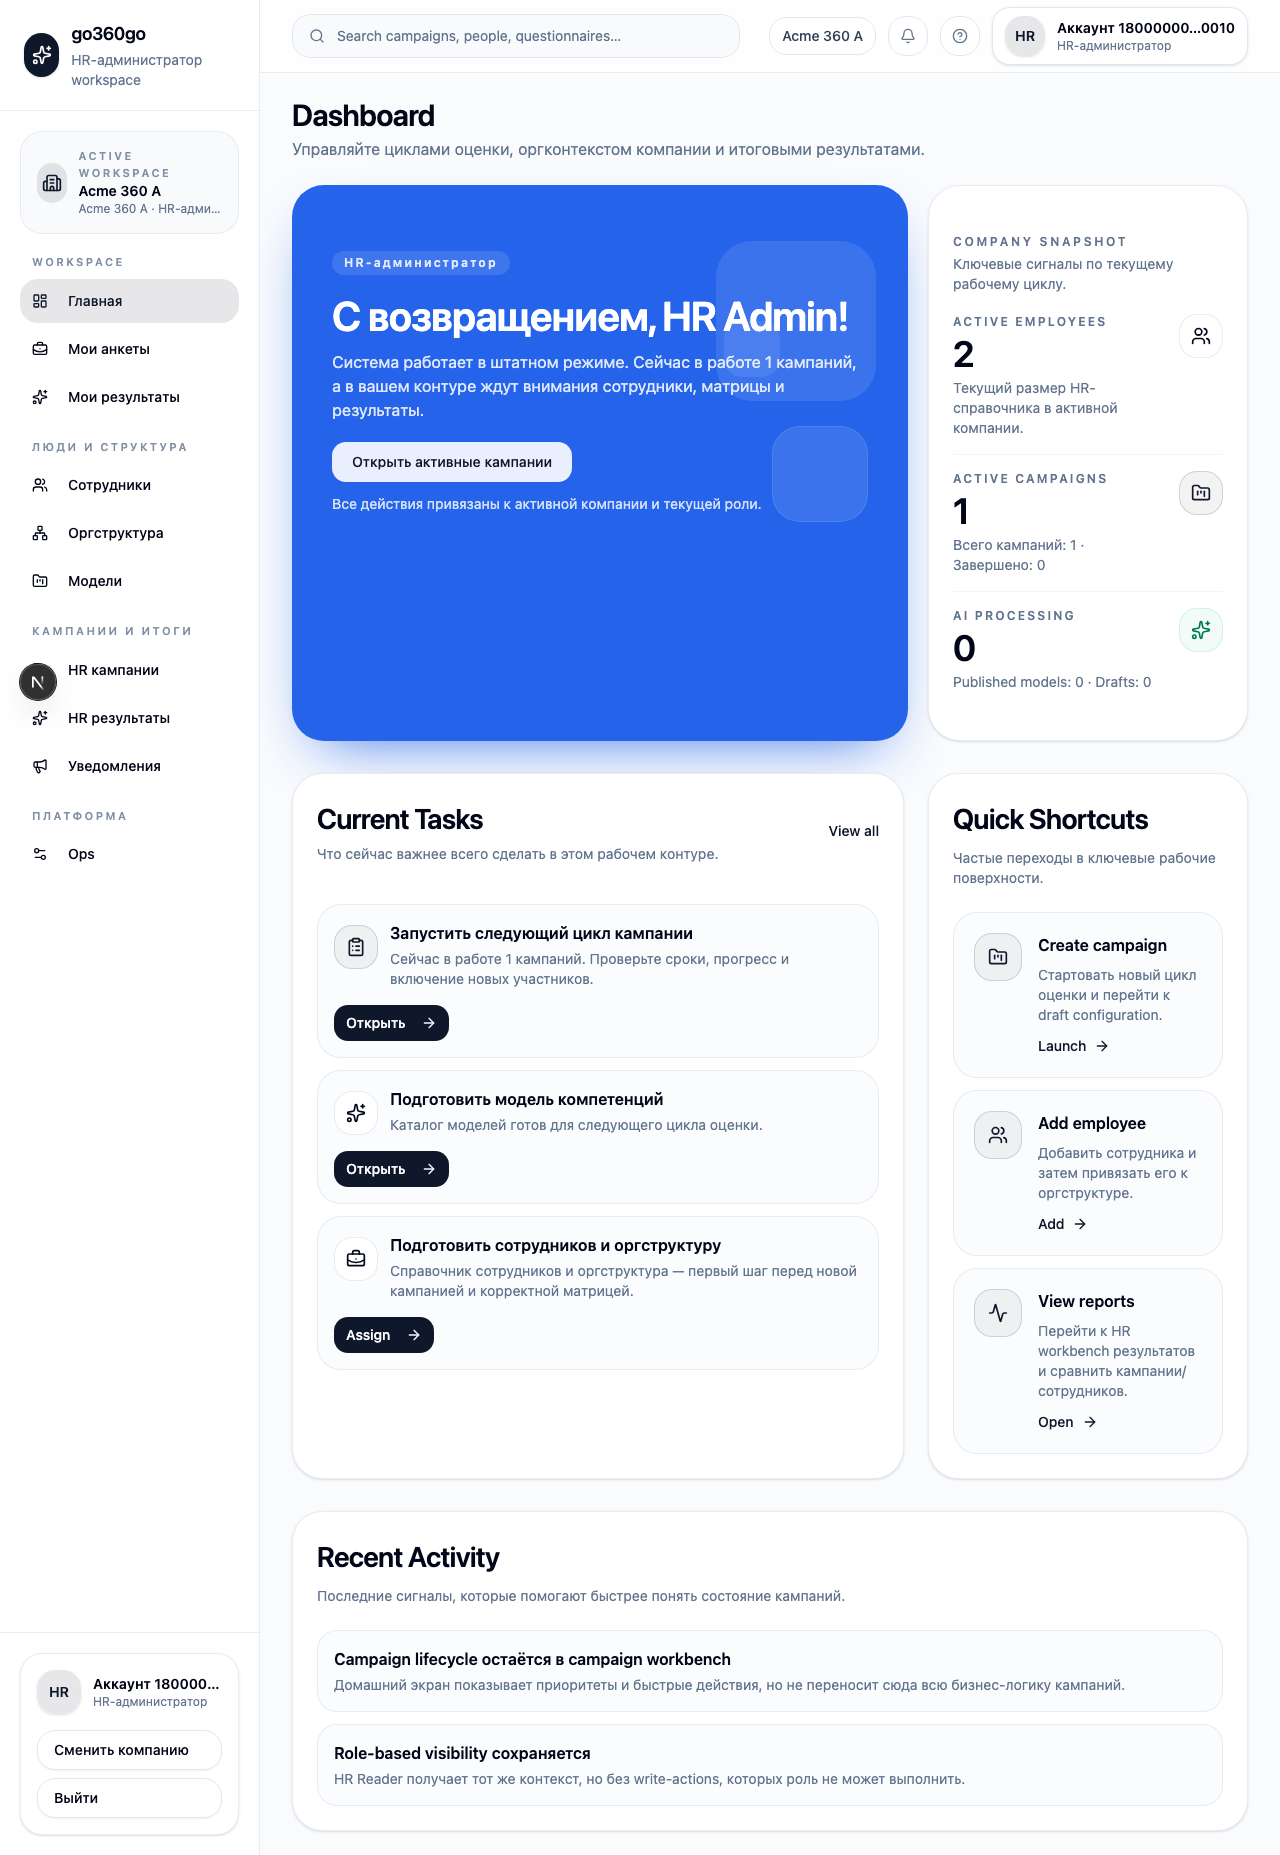
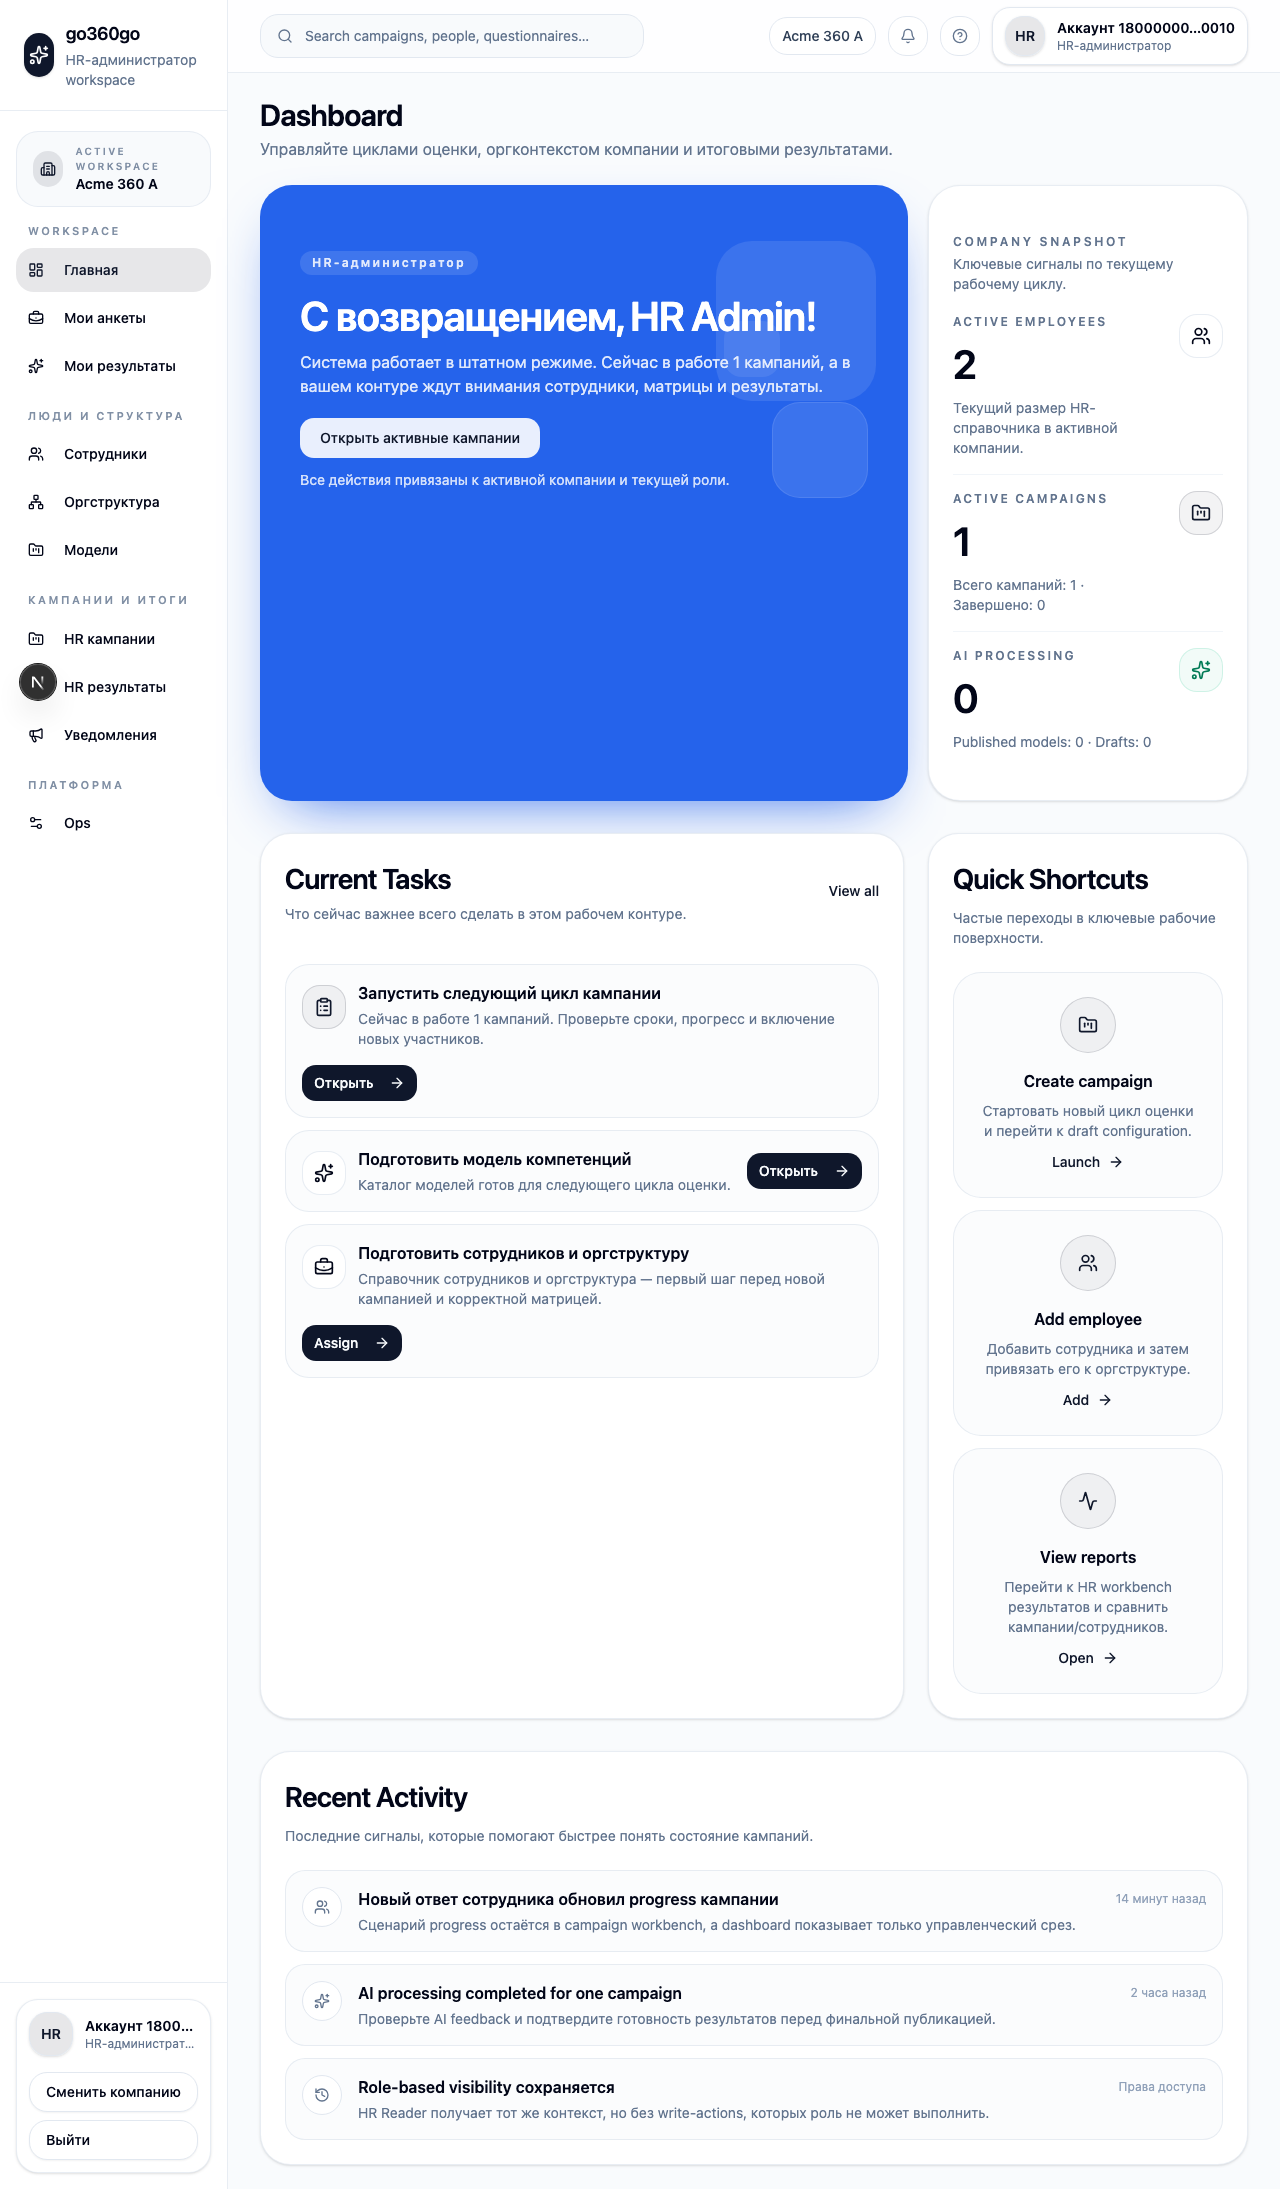
[EP-021] Tighten dashboard toward reference layout

diff --git a/apps/web/src/app/page.tsx b/apps/web/src/app/page.tsx
@@ -14,6 +14,7 @@ import {
   BriefcaseBusiness,
   ClipboardList,
   FolderKanban,
+  History,
   Sparkles,
   Users,
 } from "lucide-react";
@@ -22,6 +23,7 @@ import { redirect } from "next/navigation";
 const metricIcons = [Users, FolderKanban, Sparkles, BarChart3];
 const taskIcons = [ClipboardList, Sparkles, BriefcaseBusiness];
 const shortcutIcons = [FolderKanban, Users, Activity, BarChart3];
+const activityIcons = [Users, Sparkles, History];
 
 const toneClassNames: Record<string, string> = {
   default: "border-border/80 bg-card text-card-foreground",
@@ -143,7 +145,7 @@ export default async function HomePage({
                         <p className="text-xs font-semibold uppercase tracking-[0.18em] text-slate-500">
                           {metric.title}
                         </p>
-                        <div className="text-4xl font-semibold tracking-tight text-slate-950">
+                        <div className="text-[2.5rem] font-semibold tracking-tight text-slate-950">
                           {metric.value}
                         </div>
                         <p className="text-sm leading-5 text-slate-500">{metric.description}</p>
@@ -230,11 +232,11 @@ export default async function HomePage({
                   <a
                     key={shortcut.testId}
                     href={shortcut.href}
-                    className="group block rounded-[1.5rem] border border-slate-200/80 bg-slate-50/60 p-5 transition hover:border-primary/30 hover:bg-primary/5"
+                    className="group block rounded-[1.75rem] border border-slate-200/80 bg-slate-50/60 p-6 text-center transition hover:border-primary/30 hover:bg-primary/5"
                     data-testid={shortcut.testId}
                   >
-                    <div className="flex items-start gap-4">
-                      <div className="flex size-12 shrink-0 items-center justify-center rounded-2xl border border-primary/15 bg-primary/5 text-primary">
+                    <div className="flex flex-col items-center gap-4">
+                      <div className="flex size-14 shrink-0 items-center justify-center rounded-full border border-primary/15 bg-primary/5 text-primary">
                         <Icon className="size-5" />
                       </div>
                       <div className="space-y-2">
@@ -264,15 +266,28 @@ export default async function HomePage({
               </p>
             </CardHeader>
             <CardContent className="space-y-3">
-              {dashboard.activity.map((item, index) => (
-                <div
-                  key={`${item.title}-${index}`}
-                  className="rounded-[1.25rem] border border-slate-200/80 bg-slate-50/60 p-4"
-                >
-                  <p className="font-semibold text-slate-950">{item.title}</p>
-                  <p className="mt-1 text-sm leading-5 text-slate-500">{item.description}</p>
-                </div>
-              ))}
+              {dashboard.activity.map((item, index) => {
+                const Icon = activityIcons[index % activityIcons.length] ?? Activity;
+                return (
+                  <div
+                    key={`${item.title}-${index}`}
+                    className="flex items-start gap-4 rounded-[1.25rem] border border-slate-200/80 bg-slate-50/60 p-4"
+                  >
+                    <div className="flex size-10 shrink-0 items-center justify-center rounded-full border border-slate-200 bg-white text-slate-500">
+                      <Icon className="size-4" />
+                    </div>
+                    <div className="min-w-0 flex-1">
+                      <div className="flex flex-wrap items-center justify-between gap-2">
+                        <p className="font-semibold text-slate-950">{item.title}</p>
+                        {item.timestamp ? (
+                          <span className="text-xs text-slate-400">{item.timestamp}</span>
+                        ) : null}
+                      </div>
+                      <p className="mt-1 text-sm leading-5 text-slate-500">{item.description}</p>
+                    </div>
+                  </div>
+                );
+              })}
             </CardContent>
           </Card>
         </section>

diff --git a/apps/web/src/features/app-shell/components/internal-app-shell.tsx b/apps/web/src/features/app-shell/components/internal-app-shell.tsx
@@ -117,7 +117,7 @@ export const InternalAppShell = async ({
   return (
     <div className="min-h-dvh bg-slate-50/80" data-testid="internal-app-shell">
       <div className="flex min-h-dvh">
-        <aside className="hidden w-[260px] shrink-0 border-r border-slate-200/80 bg-white lg:flex lg:flex-col">
+        <aside className="hidden w-[228px] shrink-0 border-r border-slate-200/80 bg-white lg:flex lg:flex-col">
           <div className="border-b border-slate-200/80 px-6 py-5">
             <div className="flex items-center gap-3">
               <div className="flex size-11 items-center justify-center rounded-2xl bg-primary text-white shadow-sm">
@@ -130,27 +130,21 @@ export const InternalAppShell = async ({
             </div>
           </div>
 
-          <div className="space-y-5 px-5 py-5">
+          <div className="space-y-4 px-4 py-5">
             <div
-              className="rounded-3xl border border-slate-200/80 bg-slate-50 px-4 py-4"
+              className="rounded-3xl border border-slate-200/80 bg-slate-50 px-4 py-3"
               data-testid="shell-company-card"
             >
               <div className="flex items-center gap-3">
-                <div className="flex size-10 items-center justify-center rounded-2xl bg-primary/10 text-primary">
-                  <Building2 className="size-5" />
+                <div className="flex size-9 items-center justify-center rounded-2xl bg-primary/10 text-primary">
+                  <Building2 className="size-4" />
                 </div>
                 <div className="min-w-0">
-                  <p className="text-[11px] font-semibold uppercase tracking-[0.22em] text-muted-foreground/80">
+                  <p className="text-[10px] font-semibold uppercase tracking-[0.22em] text-muted-foreground/80">
                     Active workspace
                   </p>
                   <p className="truncate text-sm font-semibold" data-testid="shell-company-name">
                     {meta.companyName}
-                  </p>
-                  <p
-                    className="truncate text-xs text-muted-foreground"
-                    data-testid="shell-role-label"
-                  >
-                    {meta.companySummary}
                   </p>
                 </div>
               </div>
@@ -159,8 +153,8 @@ export const InternalAppShell = async ({
             <NavLinks currentPath={currentPath} role={context.role} className="grid gap-1" />
           </div>
 
-          <div className="mt-auto border-t border-slate-200/80 px-5 py-5">
-            <div className="rounded-3xl border border-slate-200/80 bg-white p-4 shadow-sm">
+          <div className="mt-auto border-t border-slate-200/80 px-4 py-4">
+            <div className="rounded-3xl border border-slate-200/80 bg-white p-3 shadow-sm">
               <div className="flex items-center gap-3">
                 <Avatar className="size-11 rounded-2xl bg-primary/10 text-primary">
                   <AvatarLabel>{meta.accountInitials}</AvatarLabel>
@@ -235,7 +229,7 @@ export const InternalAppShell = async ({
           <div className="border-b border-slate-200/80 bg-white/90 backdrop-blur">
             <div className="flex min-h-[72px] items-center justify-between gap-4 px-4 md:px-6 lg:px-8">
               <div className="hidden min-w-0 flex-1 md:flex">
-                <div className="flex h-11 w-full max-w-md items-center gap-3 rounded-2xl border border-slate-200 bg-slate-50 px-4 text-sm text-muted-foreground">
+                <div className="flex h-11 w-full max-w-sm items-center gap-3 rounded-2xl border border-slate-200 bg-slate-50 px-4 text-sm text-muted-foreground">
                   <Search className="size-4" />
                   <span>Search campaigns, people, questionnaires…</span>
                 </div>

diff --git a/apps/web/src/features/app-shell/lib/home-dashboard.ts b/apps/web/src/features/app-shell/lib/home-dashboard.ts
@@ -25,6 +25,7 @@ export type HomeDashboardAction = {
 export type HomeDashboardActivityItem = {
   title: string;
   description: string;
+  timestamp?: string;
   tone?: "default" | "primary" | "success" | "warning";
 };
 
@@ -228,10 +229,12 @@ const buildEmployeeDashboard = async (context: AppOperationContext): Promise<Hom
       {
         title: "Компания уже выбрана",
         description: "Все анкеты и результаты открываются в активном company context.",
+        timestamp: "Сейчас",
       },
       {
         title: "Самооценка отделена от итогового результата",
         description: "Self feedback нужен для сравнения разрывов, но не влияет на общий score.",
+        timestamp: "Методология",
       },
     ],
     ...(summary.total === 0
@@ -332,11 +335,13 @@ const buildManagerDashboard = async (context: AppOperationContext): Promise<Home
       {
         title: "Manager view остаётся безопасным",
         description: "Экран команды показывает только разрешённые агрегаты без raw comments.",
+        timestamp: "Политика доступа",
       },
       {
         title: "Questionnaire flow не дублируется на home",
         description:
           "Домашний экран ведёт в существующие рабочие маршруты, не ломая core workflow.",
+        timestamp: "Навигация",
       },
     ],
   };
@@ -458,14 +463,22 @@ const buildHrDashboard = async (context: AppOperationContext): Promise<HomeDashb
     ],
     activity: [
       {
-        title: "Campaign lifecycle остаётся в campaign workbench",
+        title: "Новый ответ сотрудника обновил progress кампании",
         description:
-          "Домашний экран показывает приоритеты и быстрые действия, но не переносит сюда всю бизнес-логику кампаний.",
+          "Сценарий progress остаётся в campaign workbench, а dashboard показывает только управленческий срез.",
+        timestamp: "14 минут назад",
+      },
+      {
+        title: "AI processing completed for one campaign",
+        description:
+          "Проверьте AI feedback и подтвердите готовность результатов перед финальной публикацией.",
+        timestamp: "2 часа назад",
       },
       {
         title: "Role-based visibility сохраняется",
         description:
           "HR Reader получает тот же контекст, но без write-actions, которых роль не может выполнить.",
+        timestamp: "Права доступа",
       },
     ],
   };
